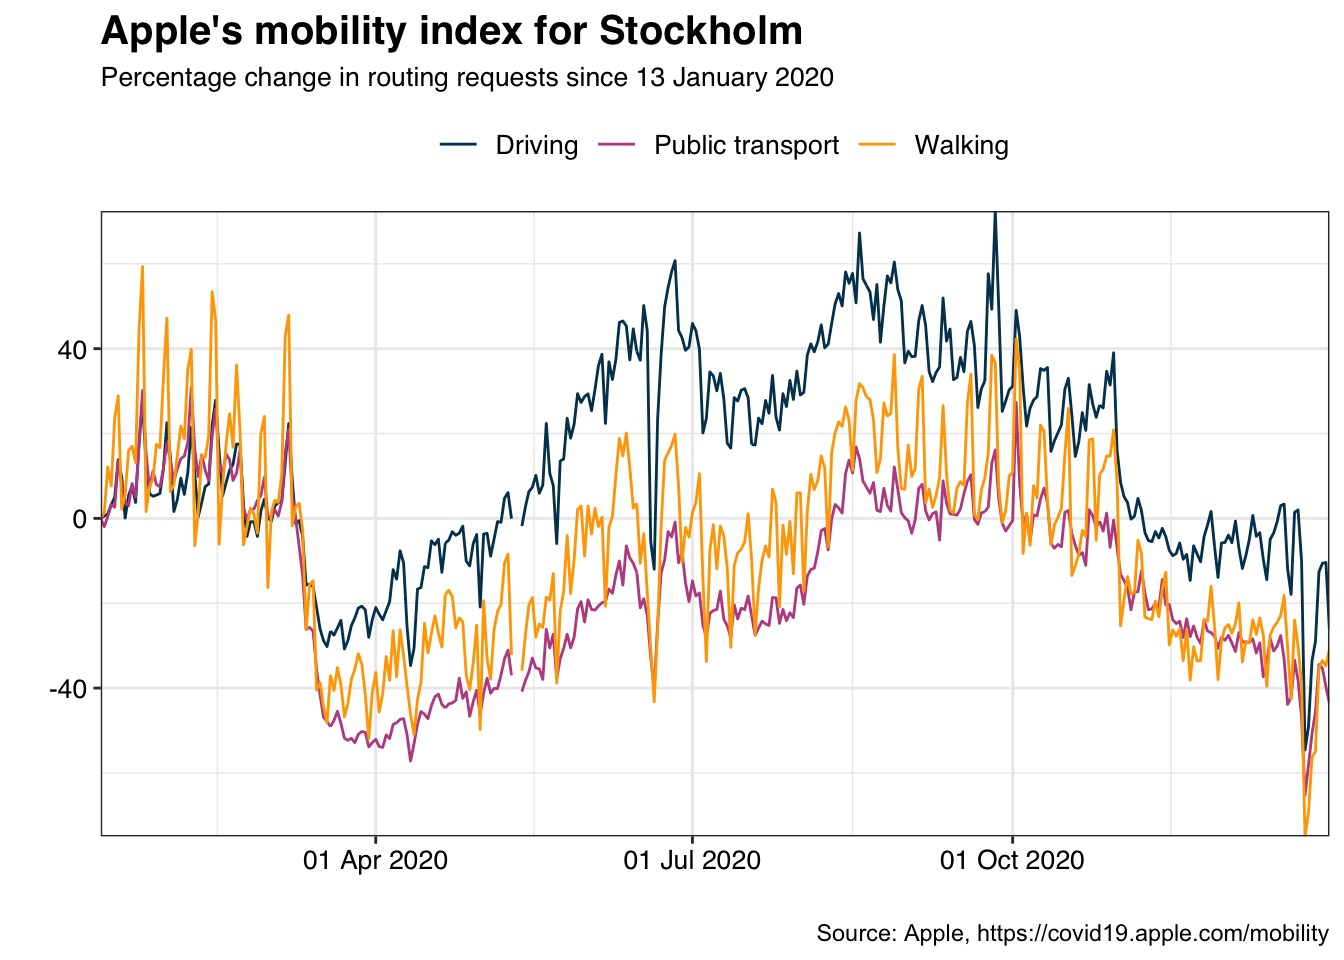
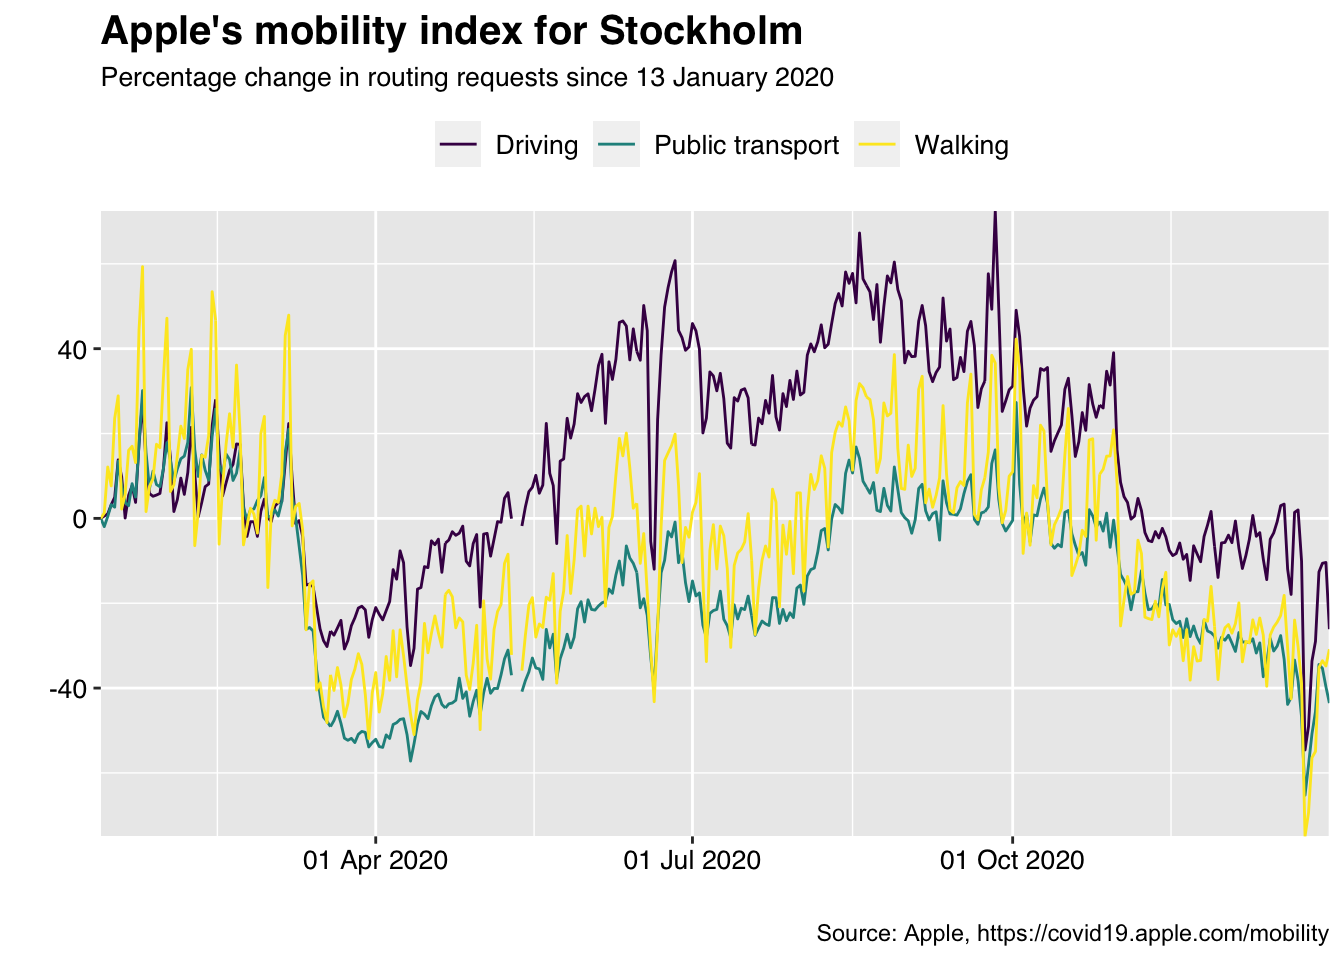
Final change.

diff --git a/content/post/2021-02-05 COVID-19 mobility trends by Apple/covid19_mobility_data_apple.html b/content/post/2021-02-05 COVID-19 mobility trends by Apple/covid19_mobility_data_apple.html
@@ -5,20 +5,20 @@ title: "COVID-19 mobility trends by Apple"
 
 
 
-<p>Challenge 1: Learn to use basic data visualisation with tidyverse
-Challenge 2: Get to know Apple’s COVID-19 mobility trend data</p>
-<p>During 2020 several new R-packages providing data relating to the global pandemic COVID-19 were released. One of these is <a href="https://covid19.apple.com/mobility"><strong>Apple’s mobility trend data</strong></a>, which the tech-giant released to the public in March 2020. (Shortly after <a href="https://www.google.com/covid19/mobility/"><strong>Google</strong></a> also released their mobility data which I will dive into in an upcoming post).</p>
-<p>Most of my previous coding experience has mostly been done in order to manipulate and wrangle data or arrive to a numeric result produced to an csv-file that was to serve as in input to another program. Hence, my expereince of visualising data (nicely) for presentations or reports is close to non-existent. The challenge for me in this post is to learn to visualize data using <a href="https://rmarkdown.rstudio.com/"><strong>RMarkdown</strong></a> and the package <a href="https://www.tidyverse.org/"><strong>tidyverse</strong></a>.</p>
+<p><strong>Challenge 1: Learn to use basic data visualisation with tidyverse</strong>
+<strong>Challenge 2: Get to know Apple’s COVID-19 mobility trend data</strong></p>
+<p>During 2020 several new R-packages providing data relating to the global pandemic COVID-19 were released. One of these is <a href="https://covid19.apple.com/mobility"><strong>Apple’s</strong></a> mobility trend data, which the tech-giant released to the public in March 2020. (Shortly after <a href="https://www.google.com/covid19/mobility/"><strong>Google</strong></a> also released their mobility trend data which I will dive into in an upcoming post).</p>
+<p>Most of my previous coding experience was mostly performed in order to wrangle data or using statistical methods to arrive to a numeric result produced to an csv-file that in turn was to serve as input to another program. Hence, my expereince of visualising data for presentations or reports is close to non-existent. The challenge for me in this post is to learn to visualize data using <a href="https://rmarkdown.rstudio.com/"><strong>RMarkdown</strong></a> and the package <a href="https://www.tidyverse.org/"><strong>tidyverse</strong></a>.</p>
 <p>The mobility data from both Apple and Google is available in the R <a href="https://github.com/Covid19R/covid19mobility"><strong>covid19mobility</strong></a> package. Apple’s data is published daily and “reflects requests for directions in Apple Maps” since 13 January 2020 for countries, cities and subregions.</p>
 <p>I start by loading the data:</p>
 <pre class="r"><code># Load Apple&#39;s country and city data and add it to a data frame
 df_apple_country &lt;- refresh_covid19mobility_apple_country()
 df_apple_city &lt;- refresh_covid19mobility_apple_city()
 
-# Use the code below to access Apple&#39;s mobilty trend data for subregions of countries. 
+# Use the code below to load Apple&#39;s mobilty trend data for subregions of countries to a data frame
 # I will be using the data on subregions in a future post.
 # df_apple_subregion &lt;- refresh_covid19mobility_apple_subregion()</code></pre>
-<p>Then I assign values to varaibles in order to faciitate the process of altering the city or country of interest:</p>
+<p>Then I assign values to variables in order to faciitate the process of altering the city or country of interest:</p>
 <pre class="r"><code># Assign the country/city/region you are interested in to variables
 country &lt;- &quot;Sweden&quot;
 countries &lt;- c(country, &quot;Norway&quot;, &quot;Denmark&quot;)
@@ -65,10 +65,11 @@ theme_set(my_text_theme)</code></pre>
   )
 
 plot1</code></pre>
-<p><img src="/post/2021-02-05 COVID-19 mobility trends by Apple/covid19_mobility_data_apple_files/figure-html/unnamed-chunk-4-1.png" width="672" /></p>
+<p><img src="/post/2021-02-05 COVID-19 mobility trends by Apple/covid19_mobility_data_apple_files/figure-html/unnamed-chunk-4-1.png" width="672" />
+I found the folowing page on the website <a href="https://learnui.design/tools/data-color-picker.html#palette">www.learnui.design</a> very useful when searching for colours to use in the plots (that work with color-blindness and look good in both light and dark theme).</p>
 <p>Next, I want to compare the mobility indicators for Sweden to those of neighboring Denmark and Norway by facetting the plot:</p>
 <pre class="r"><code>plot2 &lt;- df_apple_country %&gt;%
-  filter(location %in% countries) %&gt;%
+  filter(location %in% countries) %&gt;%   # filter using the list of countries
   mutate(mobility_indicator = case_when(
     str_detect(data_type, &quot;driving&quot;) ~ &quot;Driving&quot;,
     str_detect(data_type, &quot;transit&quot;) ~ &quot;Public transport&quot;,
@@ -93,7 +94,7 @@ plot1</code></pre>
     y = &quot;&quot;
   ) + 
   
-  facet_grid(rows = vars(location)) + #facet by rows
+  facet_grid(rows = vars(location)) + # facet by rows
   theme(strip.placement = &quot;outside&quot;)
 
 plot2</code></pre>
@@ -108,7 +109,7 @@ plot2</code></pre>
     ) %&gt;%
   arrange(mobility_indicator) %&gt;%
   
-  ggplot(aes(x = date, y = (value/100 -1)*100, color = location)) +  # I change the color to &#39;location&#39;
+  ggplot(aes(x = date, y = (value/100 -1)*100, color = location)) +  # I change the color aesthetic to &#39;location&#39;
   geom_line() +
   theme_bw() +
   my_text_theme +
@@ -125,14 +126,14 @@ plot2</code></pre>
     y = &quot;&quot;
   ) + 
   
-  facet_grid(cols = vars(mobility_indicator)) + #facet by columns
+  facet_grid(cols = vars(mobility_indicator)) + # facet by columns
   theme(strip.placement = &quot;outside&quot;)
 
 plot3</code></pre>
 <p><img src="/post/2021-02-05 COVID-19 mobility trends by Apple/covid19_mobility_data_apple_files/figure-html/unnamed-chunk-6-1.png" width="672" /></p>
 <p>Next, I am curious to see whether the big uptick in driving during the summer of 2020 in Sweden was concentrated to Sweden’s capital Stockholm:</p>
 <pre class="r"><code>plot4 &lt;- df_apple_city %&gt;%
-  filter(location %in% cities[1]) %&gt;%
+  filter(location %in% cities[1]) %&gt;%   # filter using the first city in the list &#39;cities&#39;
   mutate(mobility_indicator = case_when(
     str_detect(data_type, &quot;driving&quot;) ~ &quot;Driving&quot;,
     str_detect(data_type, &quot;transit&quot;) ~ &quot;Public transport&quot;,
@@ -142,12 +143,12 @@ plot3</code></pre>
   
   ggplot(aes(x = date, y = (value/100-1)*100, color = mobility_indicator)) +
   geom_line() +
-  theme_bw() +
+  theme_grey() +   # trying another theme
   my_text_theme +
   
   scale_x_date(expand = c(0,0), labels = date_format(&quot;%d %b %Y&quot;)) +
   scale_y_continuous(expand = c(0,0)) +
-  scale_color_manual(values=c(&quot;#003f5c&quot;, &quot;#bc5090&quot;, &quot;#ffa600&quot;)) +
+  scale_color_viridis_d(option = &quot;D&quot;) +   # trying another color, 5 options A - E are available
   
   labs(
     title = paste(&quot;Apple&#39;s mobility index for&quot;, cities[1]),
@@ -159,11 +160,102 @@ plot3</code></pre>
 
 plot4</code></pre>
 <p><img src="/post/2021-02-05 COVID-19 mobility trends by Apple/covid19_mobility_data_apple_files/figure-html/unnamed-chunk-7-1.png" width="672" /></p>
-<p>The plot shows no uptick in the mobility indicator “driving” in Stockholm, so the big lift must have happened in the rest of the country. Next I want to compare Stockholm to the capitals of Denmark (Copenhagen) and Norway (Oslo):</p>
+<p>The plot shows no uptick in the mobility indicator “driving” in Stockholm, so the big lift must have happened in the rest of the country. Next, I want to compare Stockholm to the capitals of Denmark (Copenhagen) and Norway (Oslo). I want to visualise both all three capitals and countries in one single plot:</p>
+<pre class="r"><code>capital_and_country &lt;- c(&quot;Stockholm&quot;, &quot;Copenhagen&quot;, &quot;Oslo&quot;, &quot;Sweden&quot;, &quot;Denmark&quot;, &quot;Norway&quot;)
+
+join_country &lt;- df_apple_country %&gt;%
+  mutate(mobility_indicator = case_when(
+    str_detect(data_type, &quot;driving&quot;) ~ &quot;Driving&quot;,
+    str_detect(data_type, &quot;transit&quot;) ~ &quot;Public transport&quot;,
+    str_detect(data_type, &quot;walking&quot;) ~ &quot;Walking&quot;)) %&gt;%
+  select(1:7, mobility_indicator) %&gt;%
+  arrange(mobility_indicator)
+
+join_city &lt;- df_apple_city %&gt;%
+  mutate(mobility_indicator = case_when(
+    str_detect(data_type, &quot;driving&quot;) ~ &quot;Driving&quot;,
+    str_detect(data_type, &quot;transit&quot;) ~ &quot;Public transport&quot;,
+    str_detect(data_type, &quot;walking&quot;) ~ &quot;Walking&quot;)) %&gt;%
+  select(1:7, mobility_indicator) %&gt;%
+  arrange(mobility_indicator)
+
+joined_country_city &lt;- rbind(join_country, join_city)
+
+# To change plot order of facet wrap, change the order of varible levels with factor()
+joined_country_city$location &lt;- factor(joined_country_city$location, levels = capital_and_country)
+
+# Create facet wrap first with &quot;old&quot; order
+plot5 &lt;- joined_country_city %&gt;%
+  filter(location %in% capital_and_country) %&gt;%
+  ggplot(aes(x = date, y = (value/100 -1)*100, color = mobility_indicator)) +
+  geom_line() +
+  theme_bw() +
+  my_text_theme +
+  
+  scale_x_date(expand = c(0,0), labels = date_format(&quot;%b %y&quot;)) +
+  scale_y_continuous(expand = c(0,0)) +
+  scale_color_manual(values=c(&quot;#003f5c&quot;, &quot;#bc5090&quot;, &quot;#ffa600&quot;)) +
+
+  labs(
+    title = paste(&quot;Comparing Apple&#39;s mobility index for some countries and capitals&quot;),
+    subtitle = paste(&quot;Percentage change in routing requests since&quot;, as.character(start, &quot;%d %B %Y&quot;)),
+    caption = &quot;Source: Apple, https://covid19.apple.com/mobility&quot;,
+    x = &quot;&quot;,
+    y = &quot;&quot;
+  ) + 
+
+  facet_wrap(facets = vars(location))
+  
+# Add new order to facet wrap
+plot5 + facet_wrap(~ location) </code></pre>
 <p><img src="/post/2021-02-05 COVID-19 mobility trends by Apple/covid19_mobility_data_apple_files/figure-html/unnamed-chunk-8-1.png" width="672" /></p>
+<p>And last but not least, I want to compare the mobility trend indicators for Sweden to the three biggest cities in the country: 1. Stockholm, Gothenburg and Malmö. Oddly, the city Malmö is spelled using the Swedish letter “ö” in the Apple data, while Gothenburg (in Swedish: Göteborg) is spelled in English “Gothenburg”. Interesting, I wonder why that is?</p>
+<pre class="r"><code>sweden_cities &lt;- c(&quot;Sweden&quot;, &quot;Stockholm&quot;, &quot;Gothenburg&quot;, &quot;Malmö&quot;)
+
+join_country &lt;- df_apple_country %&gt;%
+  mutate(mobility_indicator = case_when(
+    str_detect(data_type, &quot;driving&quot;) ~ &quot;Driving&quot;,
+    str_detect(data_type, &quot;transit&quot;) ~ &quot;Public transport&quot;,
+    str_detect(data_type, &quot;walking&quot;) ~ &quot;Walking&quot;)) %&gt;%
+  select(1:7, mobility_indicator) %&gt;%
+  arrange(mobility_indicator)
+
+join_city &lt;- df_apple_city %&gt;%
+  mutate(mobility_indicator = case_when(
+    str_detect(data_type, &quot;driving&quot;) ~ &quot;Driving&quot;,
+    str_detect(data_type, &quot;transit&quot;) ~ &quot;Public transport&quot;,
+    str_detect(data_type, &quot;walking&quot;) ~ &quot;Walking&quot;)) %&gt;%
+  select(1:7, mobility_indicator) %&gt;%
+  arrange(mobility_indicator)
+
+joined_country_city &lt;- rbind(join_country, join_city)
+
+# To change plot order of facet wrap, change the order of varible levels with factor()
+joined_country_city$location &lt;- factor(joined_country_city$location, levels = sweden_cities)
+
+# Create facet wrap first with &quot;old&quot; order
+plot6 &lt;- joined_country_city %&gt;%
+  filter(location %in% sweden_cities) %&gt;%
+  ggplot(aes(x = date, y = (value/100 -1)*100, color = mobility_indicator)) +
+  geom_line() +
+  theme_bw() +
+  my_text_theme +
+  
+  scale_x_date(expand = c(0,0), labels = date_format(&quot;%b %y&quot;)) +
+  scale_y_continuous(expand = c(0,0)) +
+  scale_color_manual(values=c(&quot;#003f5c&quot;, &quot;#bc5090&quot;, &quot;#ffa600&quot;)) +
+
+  labs(
+    title = paste(&quot;Comparing Apple&#39;s mobility index for&quot;, sweden_cities[1], &quot;and it&#39;s cities&quot;),
+    subtitle = paste(&quot;Percentage change in routing requests since&quot;, as.character(start, &quot;%d %B %Y&quot;)),
+    caption = &quot;Source: Apple, https://covid19.apple.com/mobility&quot;,
+    x = &quot;&quot;,
+    y = &quot;&quot;
+  ) + 
+
+  facet_wrap(facets = vars(location))
+  
+# Add new order to facet wrap
+plot6 + facet_wrap(~ location)</code></pre>
 <p><img src="/post/2021-02-05 COVID-19 mobility trends by Apple/covid19_mobility_data_apple_files/figure-html/unnamed-chunk-9-1.png" width="672" /></p>
-<p>Next, I want to visualise both all three capitals and countries in one single plot:</p>
-<p><img src="/post/2021-02-05 COVID-19 mobility trends by Apple/covid19_mobility_data_apple_files/figure-html/comparison%20capitals%20and%20countries-1.png" width="672" /></p>
-<p>And last but not least, I want to compare the mobility trend indicators for Sweden to the three biggest cities in the country: 1. <a href="https://en.wikipedia.org/wiki/Stockholm"><strong>Stockholm</strong></a>, 2. <a href="https://en.wikipedia.org/wiki/Gothenburg"><strong>Gothenburg</strong></a> and 3. <a href="https://en.wikipedia.org/wiki/Malm%C3%B6"><strong>Malmö</strong></a>. Oddly, the city Malmö is spelled using the Swedish letter “ö” in the Apple data, while Gothenburg (in Swedish: Göteborg) is spelled in English “Gothenburg”. Interesting, I wonder why that is?</p>
-<p><img src="/post/2021-02-05 COVID-19 mobility trends by Apple/covid19_mobility_data_apple_files/figure-html/comparison%20sweden%20internal-1.png" width="672" /></p>
-<p>That was all for now! Omg, there were so many more possibilities available for tweaking plots when using ggplot2 in tidyverse than I expected. I really had to spend quite some time online reading documentation and checking examples. The possibilites are truely immense so please see the above as a glimpse into the world of tidy! I can warmly recommend the folowing page on the website <a href="https://datacarpentry.org/R-ecology-lesson/04-visualization-ggplot2"><strong>datacarpentry.org</strong></a> that I found particularly useful for the type of data used in this post.</p>
+<p>That was all for now! Omg, there were so many more possibilities available for tweaking the plots when using ggplot2 in tidyverse than I expected. I really had to spend quite some time online reading documentation and checking examples. The possibilites are truely immense so please see the examples above as a glimpse into the world of tidy! I can warmly recommend the folowing page on the website <a href="https://datacarpentry.org/R-ecology-lesson/04-visualization-ggplot2"><strong>www.datacarpentry.org</strong></a> that I found particularly useful.</p>
